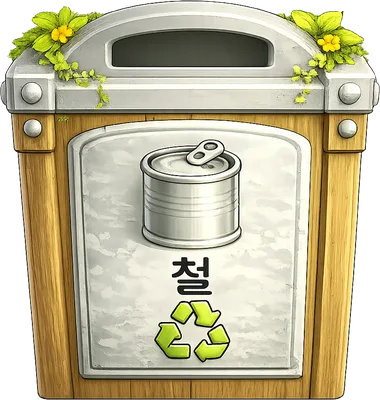
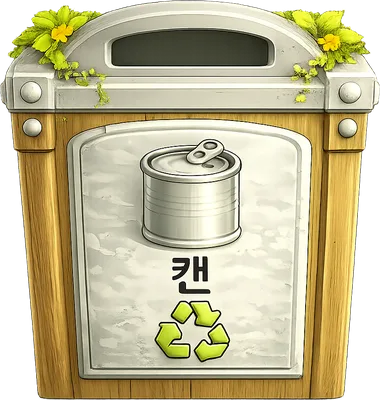
fix: 분리수거 캔 통 글자를 캔으로 맞춤
통 그림에 "철"이라고 적혀 있어 안내 문구도 그 글자를 따랐는데, 명세의 분류는
캔이고 아이에게도 "철"보다 "캔"이 익숙하다. 그림을 캔으로 다시 받아 바꾸고
통 이름도 함께 맞췄다.

이 이름은 오답 안내 문구에 그대로 들어간다. 그림에 적힌 글자와 다르면 아이가
어디에 넣으라는 것인지 알 수 없다.

  전: 음료수 캔은 철 통에 넣으면 돼!
  후: 음료수 캔은 캔 통에 넣으면 돼!

서버로 보내는 분류 코드는 그대로 CAN이다.

diff --git a/frontend/src/features/games/recycle/recycleItems.ts b/frontend/src/features/games/recycle/recycleItems.ts
@@ -59,14 +59,14 @@ export type RecycleBin = {
  * 분리수거 통.
  *
  * 글자·색·대표 그림이 모두 통 이미지 안에 그려져 있어 화면에서 따로 얹지
- * 않는다(RGAME-03). 캔 통은 그림에 "철"이라고 적혀 있어 안내 문구도 그
- * 글자를 쓴다 — 아이가 보는 글자와 듣는 말이 달라지면 어디에 넣으라는
- * 것인지 알 수 없다.
+ * 않는다(RGAME-03). `label`은 통 그림에 실제로 적힌 글자와 같아야 한다 —
+ * 안내 문구가 이 이름을 쓰기 때문에, 아이가 보는 글자와 듣는 말이 달라지면
+ * 어디에 넣으라는 것인지 알 수 없다.
  */
 export const RECYCLE_BINS: RecycleBin[] = [
   {
     category: 'CAN',
-    label: '철',
+    label: '캔',
     imageUrl: canBinUrl,
     centerX: CFG.bin.centersX[0],
   },
